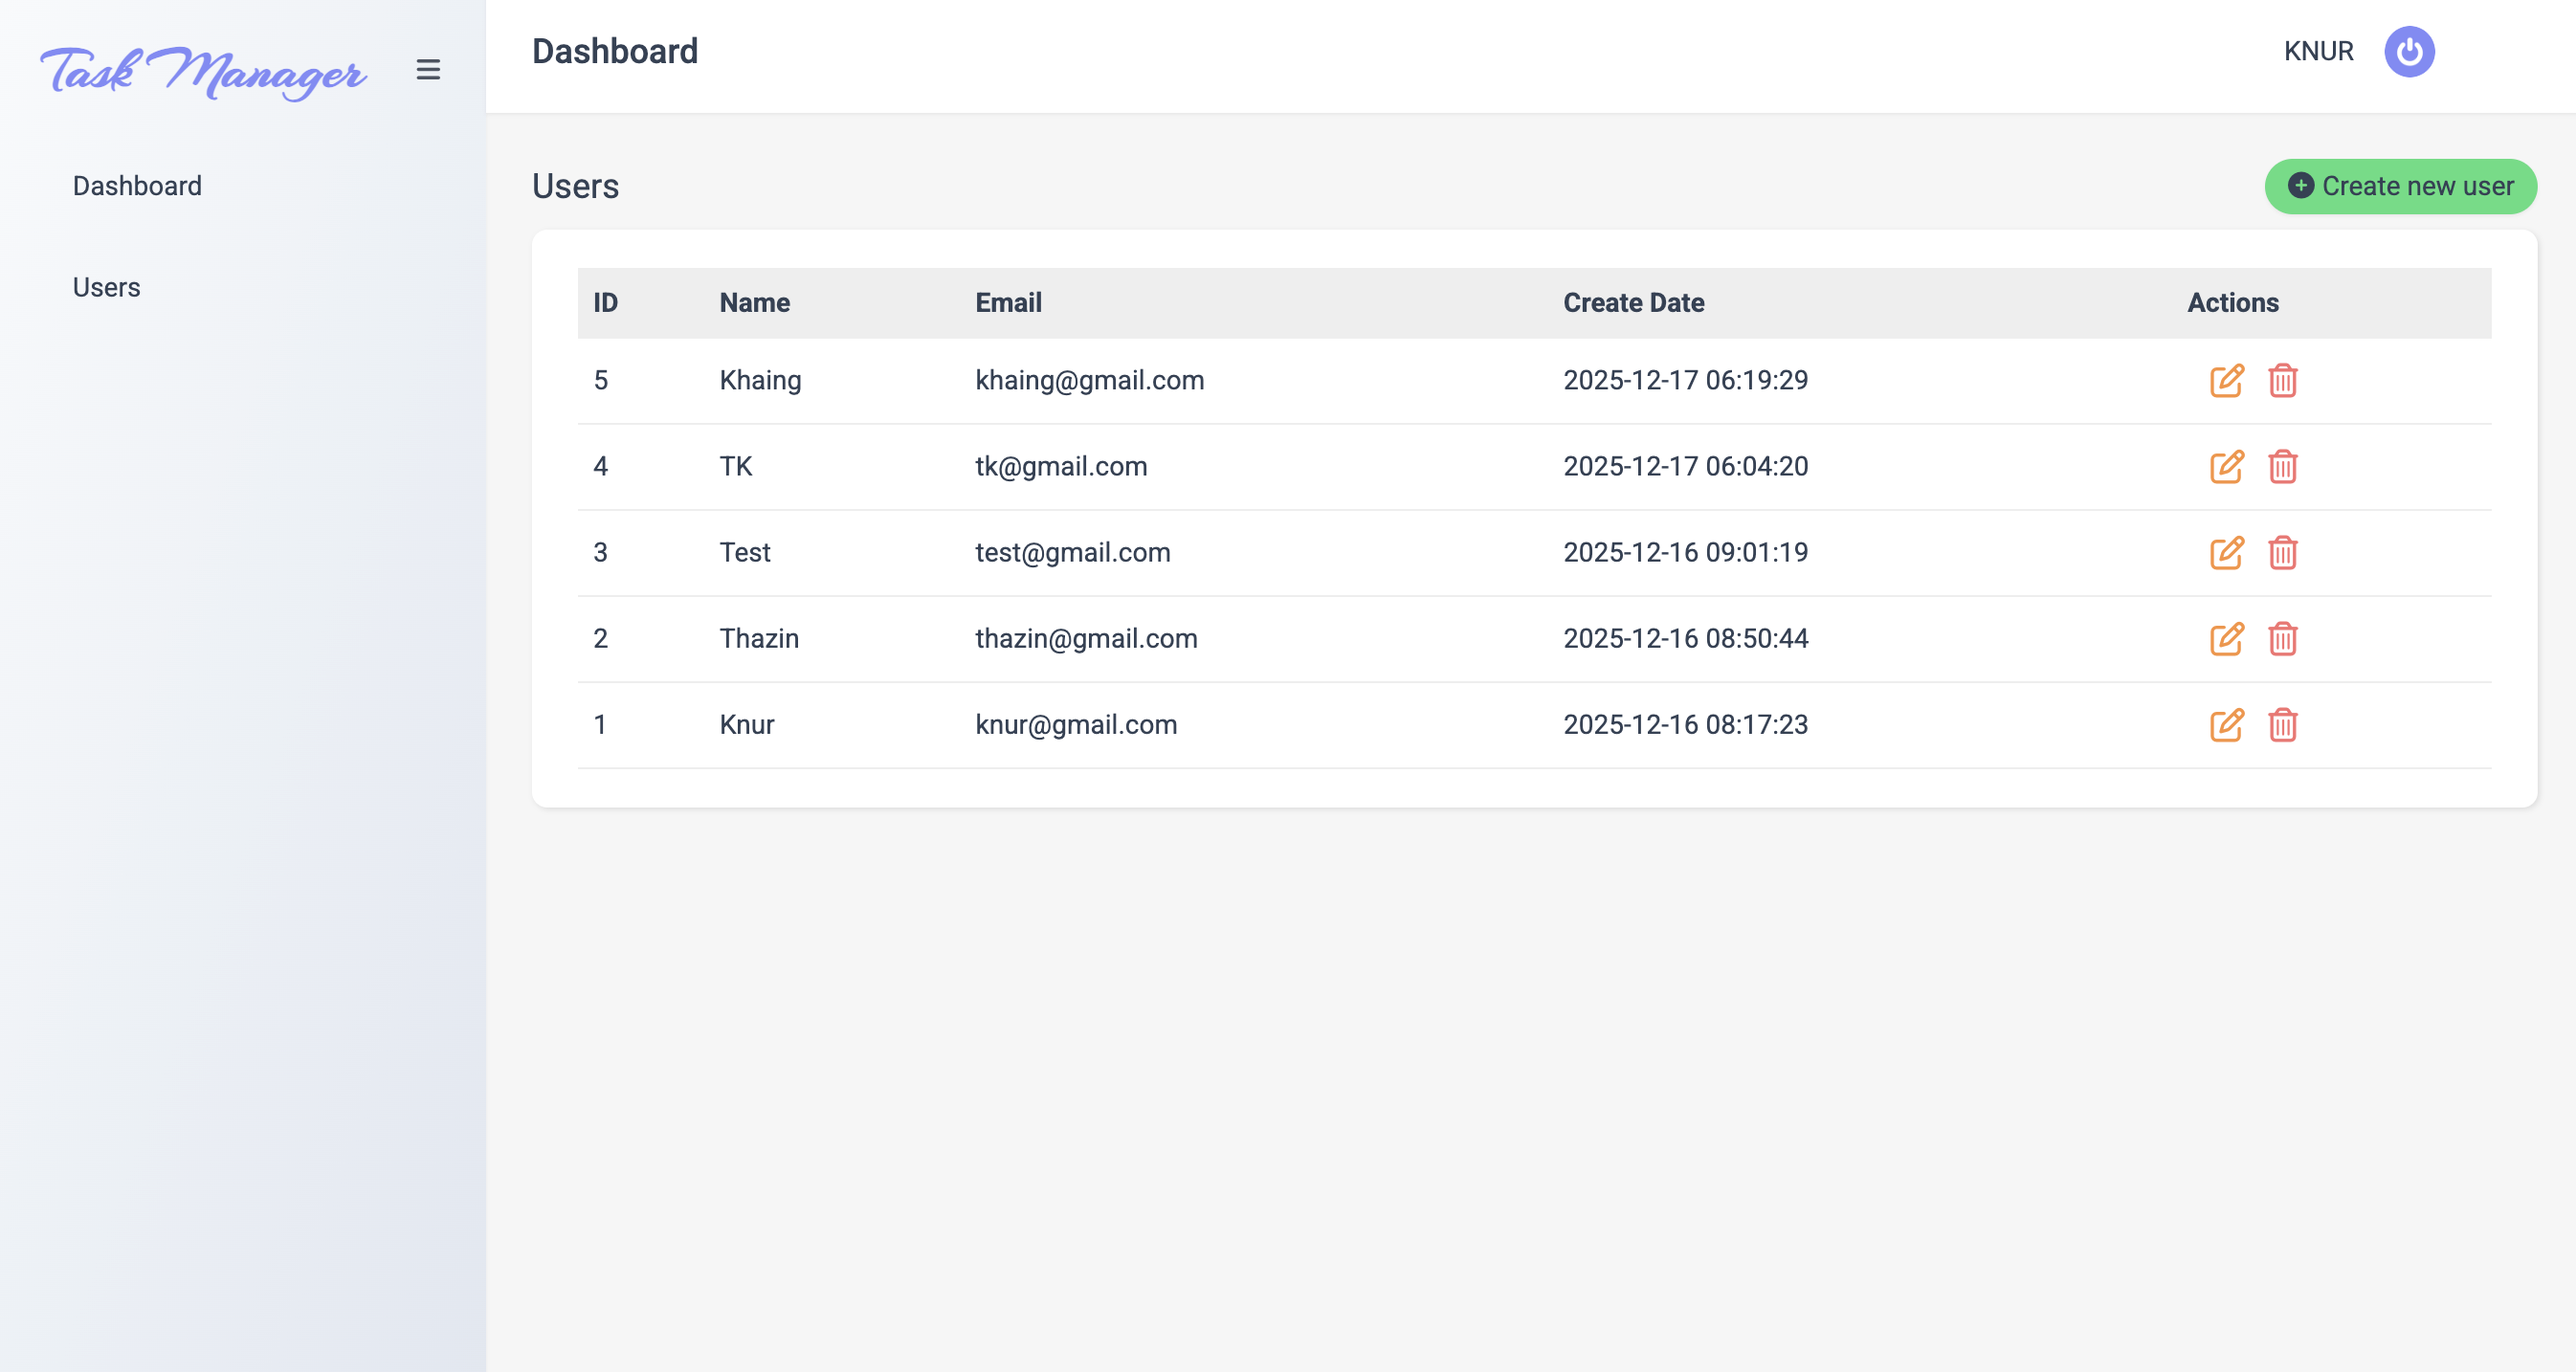
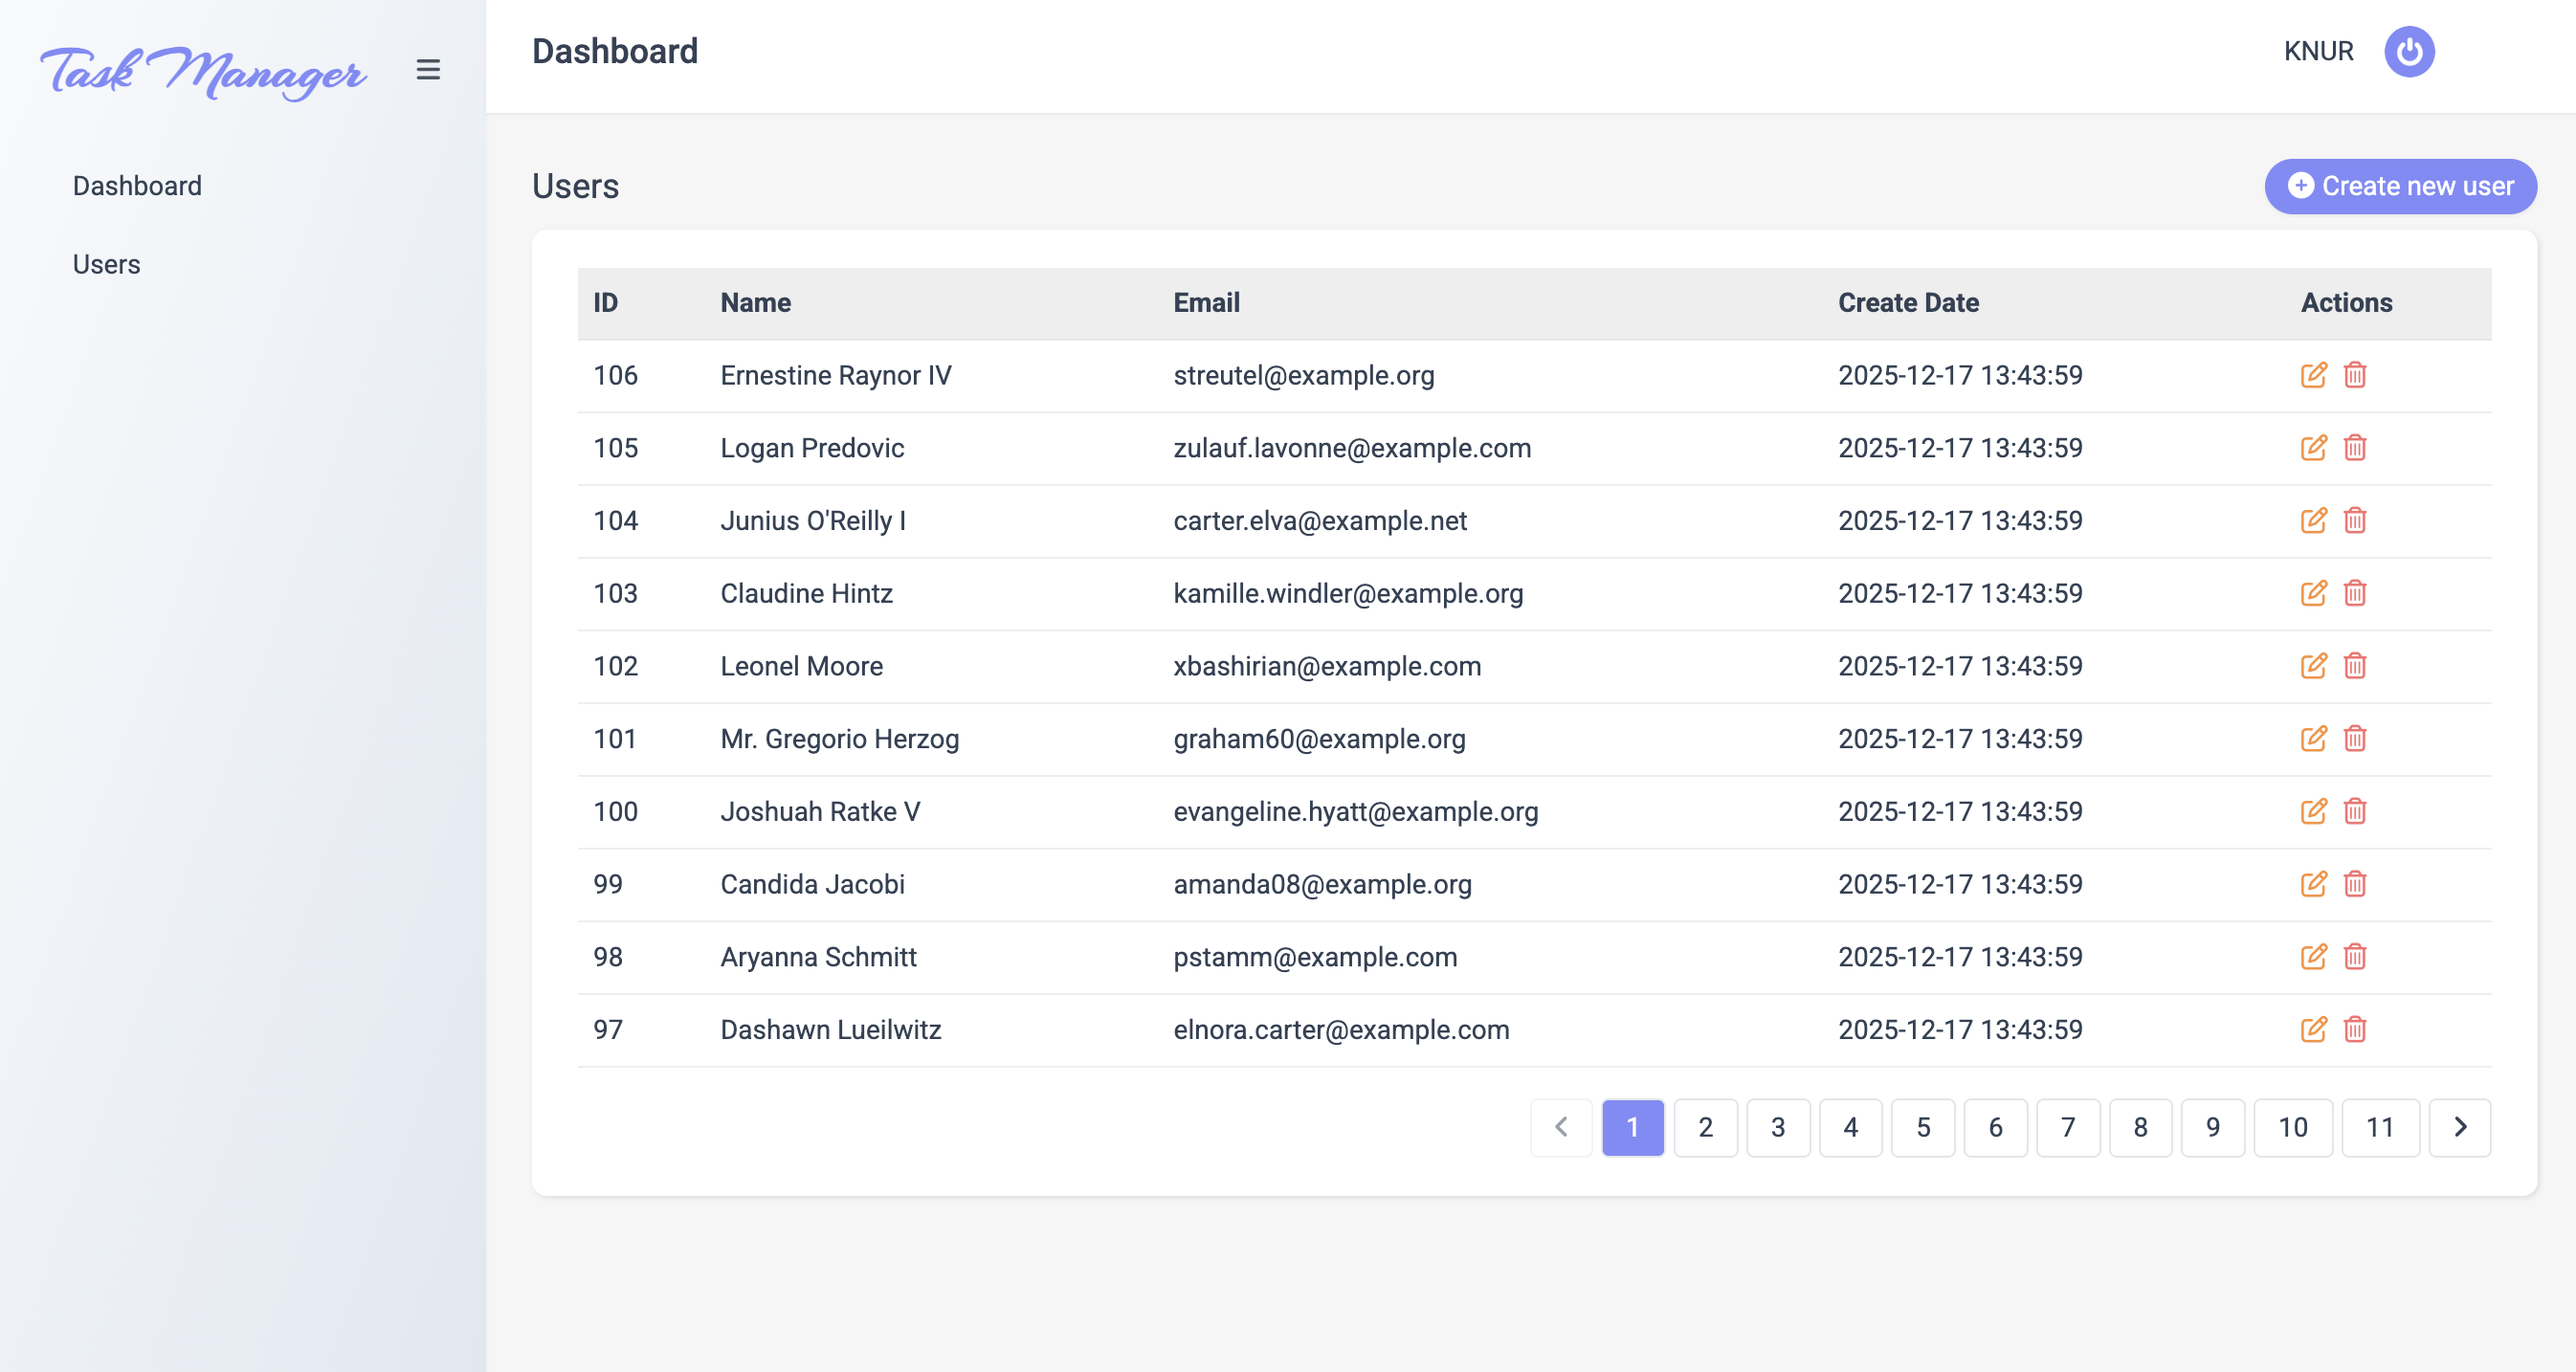
[Finished] User list design

diff --git a/react/src/pages/Users.jsx b/react/src/pages/Users.jsx
@@ -1,66 +1,87 @@
 import {useEffect, useState} from "react";
-import axiosClient from "../axios-client.js";
+import axiosClient from "../axios-client";
 import {Link} from "react-router-dom";
-import {useStateContext} from "../context/ContextProvider.jsx";
+import {useStateContext} from "../context/ContextProvider";
 
 export default function Users() {
     const [users, setUsers] = useState([]);
     const [loading, setLoading] = useState(false);
+    const [pagination, setPagination] = useState({
+        current_page: 1,
+        last_page: 1,
+    });
+
     const {setNotification} = useStateContext();
 
     useEffect(() => {
-        getUsers();
+        getUsers(pagination.current_page);
     }, []);
 
-    const onDeleteClick = (user) => {
-        if (!window.confirm("Are you sure you want to delete this user?")) {
-            return;
-        }
-        axiosClient.delete(`/users/${user.id}`).then(() => {
-            setNotification("User was successfully deleted");
-            getUsers();
-        });
-    };
-
-    const getUsers = () => {
+    const getUsers = (page = 1) => {
         setLoading(true);
         axiosClient
-            .get("/users")
+            .get(`/users?page=${page}`)
             .then(({data}) => {
+                setUsers(data.data || []);
+                setPagination(data.meta);
                 setLoading(false);
-                if (Array.isArray(data.data)) {
-                    setUsers(data.data);
-                } else {
-                    setUsers([]);
-                }
             })
             .catch(() => {
-                setLoading(false);
                 setUsers([]);
+                setLoading(false);
             });
     };
 
+    const onDeleteClick = (user) => {
+        if (!window.confirm("Are you sure you want to delete this user?")) return;
+
+        axiosClient.delete(`/users/${user.id}`).then(() => {
+            setNotification("User was successfully deleted");
+            getUsers(pagination.current_page);
+        });
+    };
+
+    const renderPageNumbers = () => {
+        const pages = [];
+
+        for (let i = 1; i <= pagination.last_page; i++) {
+            pages.push(
+                <button
+                    key={i}
+                    onClick={() => getUsers(i)}
+                    className={`tw-px-3 tw-py-1 tw-border tw-rounded
+          ${pagination.current_page === i
+                        ? "tw-bg-indigo-400 tw-text-white"
+                        : "hover:tw-bg-gray-100"}
+        `}
+                >
+                    {i}
+                </button>
+            );
+        }
+
+        return pages;
+    };
+
+
     return (
         <div>
-            <div
-                style={{
-                    display: "flex",
-                    justifyContent: "space-between",
-                    alignItems: "center",
-                }}
-            >
+            <div className="tw-flex tw-justify-between tw-items-center">
                 <h1 className="tw-text-lg">Users</h1>
-                <button className="btn btn-sm tw-bg-green-400 hover:tw-bg-green-300 tw-px-3 tw-py-1 tw-rounded-full tw-shadow-sm">
-                    <Link to="/users/new">
-                        <i className="fa-solid fa-circle-plus tw-mr-1"></i>
-                        <span>Create new user</span>
-                    </Link>
-                </button>
+                <Link
+                    to="/users/new"
+                    className="tw-bg-indigo-400 tw-text-white hover:tw-bg-indigo-300 tw-px-3 tw-py-1 tw-rounded-full tw-shadow-sm"
+                >
+                    <i className="fa-solid fa-circle-plus tw-mr-1"></i>
+                    Create new user
+                </Link>
             </div>
+
+            {/* Table */}
             <div className="card animated fadeInDown">
-                <table>
+                <table className="tw-w-full tw-border-collapse">
                     <thead>
-                    <tr>
+                    <tr className="tw-border-b">
                         <th>ID</th>
                         <th>Name</th>
                         <th>Email</th>
@@ -68,47 +89,67 @@ export default function Users() {
                         <th>Actions</th>
                     </tr>
                     </thead>
+
+                    <tbody>
                     {loading && (
-                        <tbody>
                         <tr>
-                            <td colSpan="5" className="text-center">
+                            <td colSpan="5" className="tw-text-center">
                                 Loading...
                             </td>
                         </tr>
-                        </tbody>
                     )}
-                    {!loading && Array.isArray(users) && (
-                        <tbody>
-                        {users.map((u) => (
-                            <tr key={u.id}>
+
+                    {!loading && users.length === 0 && (
+                        <tr>
+                            <td colSpan="5" className="tw-text-center">
+                                No users found
+                            </td>
+                        </tr>
+                    )}
+
+                    {!loading &&
+                        users.map((u) => (
+                            <tr key={u.id} className="tw-border-b">
                                 <td>{u.id}</td>
                                 <td>{u.name}</td>
                                 <td>{u.email}</td>
                                 <td>{u.created_at}</td>
-                                <td>
-                                    <Link className="btn-edit" to={"/users/" + u.id}>
-                                        <i className="fa-regular fa-pen-to-square tw-text-lg tw-text-orange-400"></i>
+                                <td className="tw-space-x-2">
+                                    <Link to={`/users/${u.id}`}>
+                                        <i className="fa-regular fa-pen-to-square tw-text-orange-400"></i>
                                     </Link>
-                                    <button
-                                        onClick={() => onDeleteClick(u)}
-                                    >
-                                        <i className="fa-regular fa-trash-can tw-text-lg tw-text-red-400"></i>
+                                    <button onClick={() => onDeleteClick(u)}>
+                                        <i className="fa-regular fa-trash-can tw-text-red-400"></i>
                                     </button>
                                 </td>
                             </tr>
                         ))}
-                        </tbody>
-                    )}
-                    {!loading && !Array.isArray(users) && (
-                        <tbody>
-                        <tr>
-                            <td colSpan="5" className="text-center">
-                                No users found.
-                            </td>
-                        </tr>
-                        </tbody>
-                    )}
+                    </tbody>
                 </table>
+
+                <div className="tw-flex tw-justify-end tw-items-center tw-gap-1 tw-mt-4">
+                    {/* Prev */}
+                    <button
+                        disabled={pagination.current_page === 1}
+                        onClick={() => getUsers(pagination.current_page - 1)}
+                        className="tw-px-3 tw-py-1 tw-border tw-rounded disabled:tw-opacity-50"
+                    >
+                        <i className="fa-solid fa-angle-left"></i>
+                    </button>
+
+                    {/* Page Numbers */}
+                    {renderPageNumbers()}
+
+                    {/* Next */}
+                    <button
+                        disabled={pagination.current_page === pagination.last_page}
+                        onClick={() => getUsers(pagination.current_page + 1)}
+                        className="tw-px-3 tw-py-1 tw-border tw-rounded disabled:tw-opacity-50"
+                    >
+                        <i className="fa-solid fa-angle-right"></i>
+                    </button>
+                </div>
+
             </div>
         </div>
     );

diff --git a/react/src/components/DefaultLayout.jsx b/react/src/components/DefaultLayout.jsx
@@ -55,18 +55,18 @@ export default function DefaultLayout() {
                     </button>
                 </div>
 
-                <nav className="tw-flex-1 tw-flex tw-flex-col tw-gap-4">
+                <nav className="tw-flex-1 tw-flex tw-flex-col tw-gap-1">
                     <Link
                         to="/dashboard"
                         className="tw-py-2 tw-px-4 tw-rounded hover:tw-bg-gray-200 tw-transition"
                     >
-                        {sidebarOpen ? "Dashboard" : "🏠"}
+                        {sidebarOpen ? "Dashboard" : <span className="tw-text-xl">🏠</span>}
                     </Link>
                     <Link
                         to="/users"
                         className="tw-py-2 tw-px-4 tw-rounded hover:tw-bg-gray-200 tw-transition"
                     >
-                        {sidebarOpen ? "Users" : "👥"}
+                        {sidebarOpen ? "Users" : <span className="tw-text-xl">👥</span>}
                     </Link>
                 </nav>
             </aside>

diff --git a/app/Http/Controllers/Api/UserController.php b/app/Http/Controllers/Api/UserController.php
@@ -10,9 +10,6 @@ use App\Http\Requests\UpdateUserRequest;
 
 class UserController extends Controller
 {
-    /**
-     * Display a listing of the resource.
-     */
     public function index()
     {
         return UserResource::collection(
@@ -20,30 +17,19 @@ class UserController extends Controller
         );
     }
 
-    /**
-     * Store a newly created resource in storage.
-     */
     public function store(StoreUserRequest $request)
     {
         $data = $request->validated();
-        $data['password'] = bcrypt($data['password']); // Corrected 'pasword' to 'password'
+        $data['password'] = bcrypt($data['password']);
         $user = User::create($data);
-        return response()->json(new UserResource($user), 201); // Use response()->json()
+        return response()->json(new UserResource($user), 201);
     }
 
-
-
-    /**
-     * Display the specified resource.
-     */
     public function show(User $user)
     {
         //
     }
 
-    /**
-     * Update the specified resource in storage.
-     */
     public function update(UpdateUserRequest $request, User $user)
     {
         $data = $request->validated();
@@ -53,9 +39,6 @@ class UserController extends Controller
         $user->update($data);
     }
 
-    /**
-     * Remove the specified resource from storage.
-     */
     public function destroy(User $user)
     {
         $user->delete();

diff --git a/database/factories/UserFactory.php b/database/factories/UserFactory.php
@@ -10,27 +10,17 @@ use Illuminate\Support\Str;
  */
 class UserFactory extends Factory
 {
-    /**
-     * Define the model's default state.
-     *
-     * @return array<string, mixed>
-     */
     public function definition(): array
     {
         return [
             'name' => fake()->name(),
             'email' => fake()->unique()->safeEmail(),
             'email_verified_at' => now(),
-            'password' => '$2y$10$92IXUNpkjO0rOQ5byMi.Ye4oKoEa3Ro9llC/.og/at2.uheWG/igi', // password
+            'password' => bcrypt('password'), // password
             'remember_token' => Str::random(10),
         ];
     }
 
-    /**
-     * Indicate that the model's email address should be unverified.
-     *
-     * @return $this
-     */
     public function unverified(): static
     {
         return $this->state(fn (array $attributes) => [

diff --git a/database/seeders/DatabaseSeeder.php b/database/seeders/DatabaseSeeder.php
@@ -3,6 +3,7 @@
 namespace Database\Seeders;
 
 use Illuminate\Database\Seeder;
+use App\Models\User;
 
 class DatabaseSeeder extends Seeder
 {
@@ -11,10 +12,12 @@ class DatabaseSeeder extends Seeder
      */
     public function run(): void
     {
-        \App\Models\User::factory()->create([
+        User::factory()->create([
             'name' => 'Knur',
             'email' => 'knur@gmail.com',
             'password' => bcrypt('password')
         ]);
+
+        User::factory()->count(100)->create();
     }
 }
